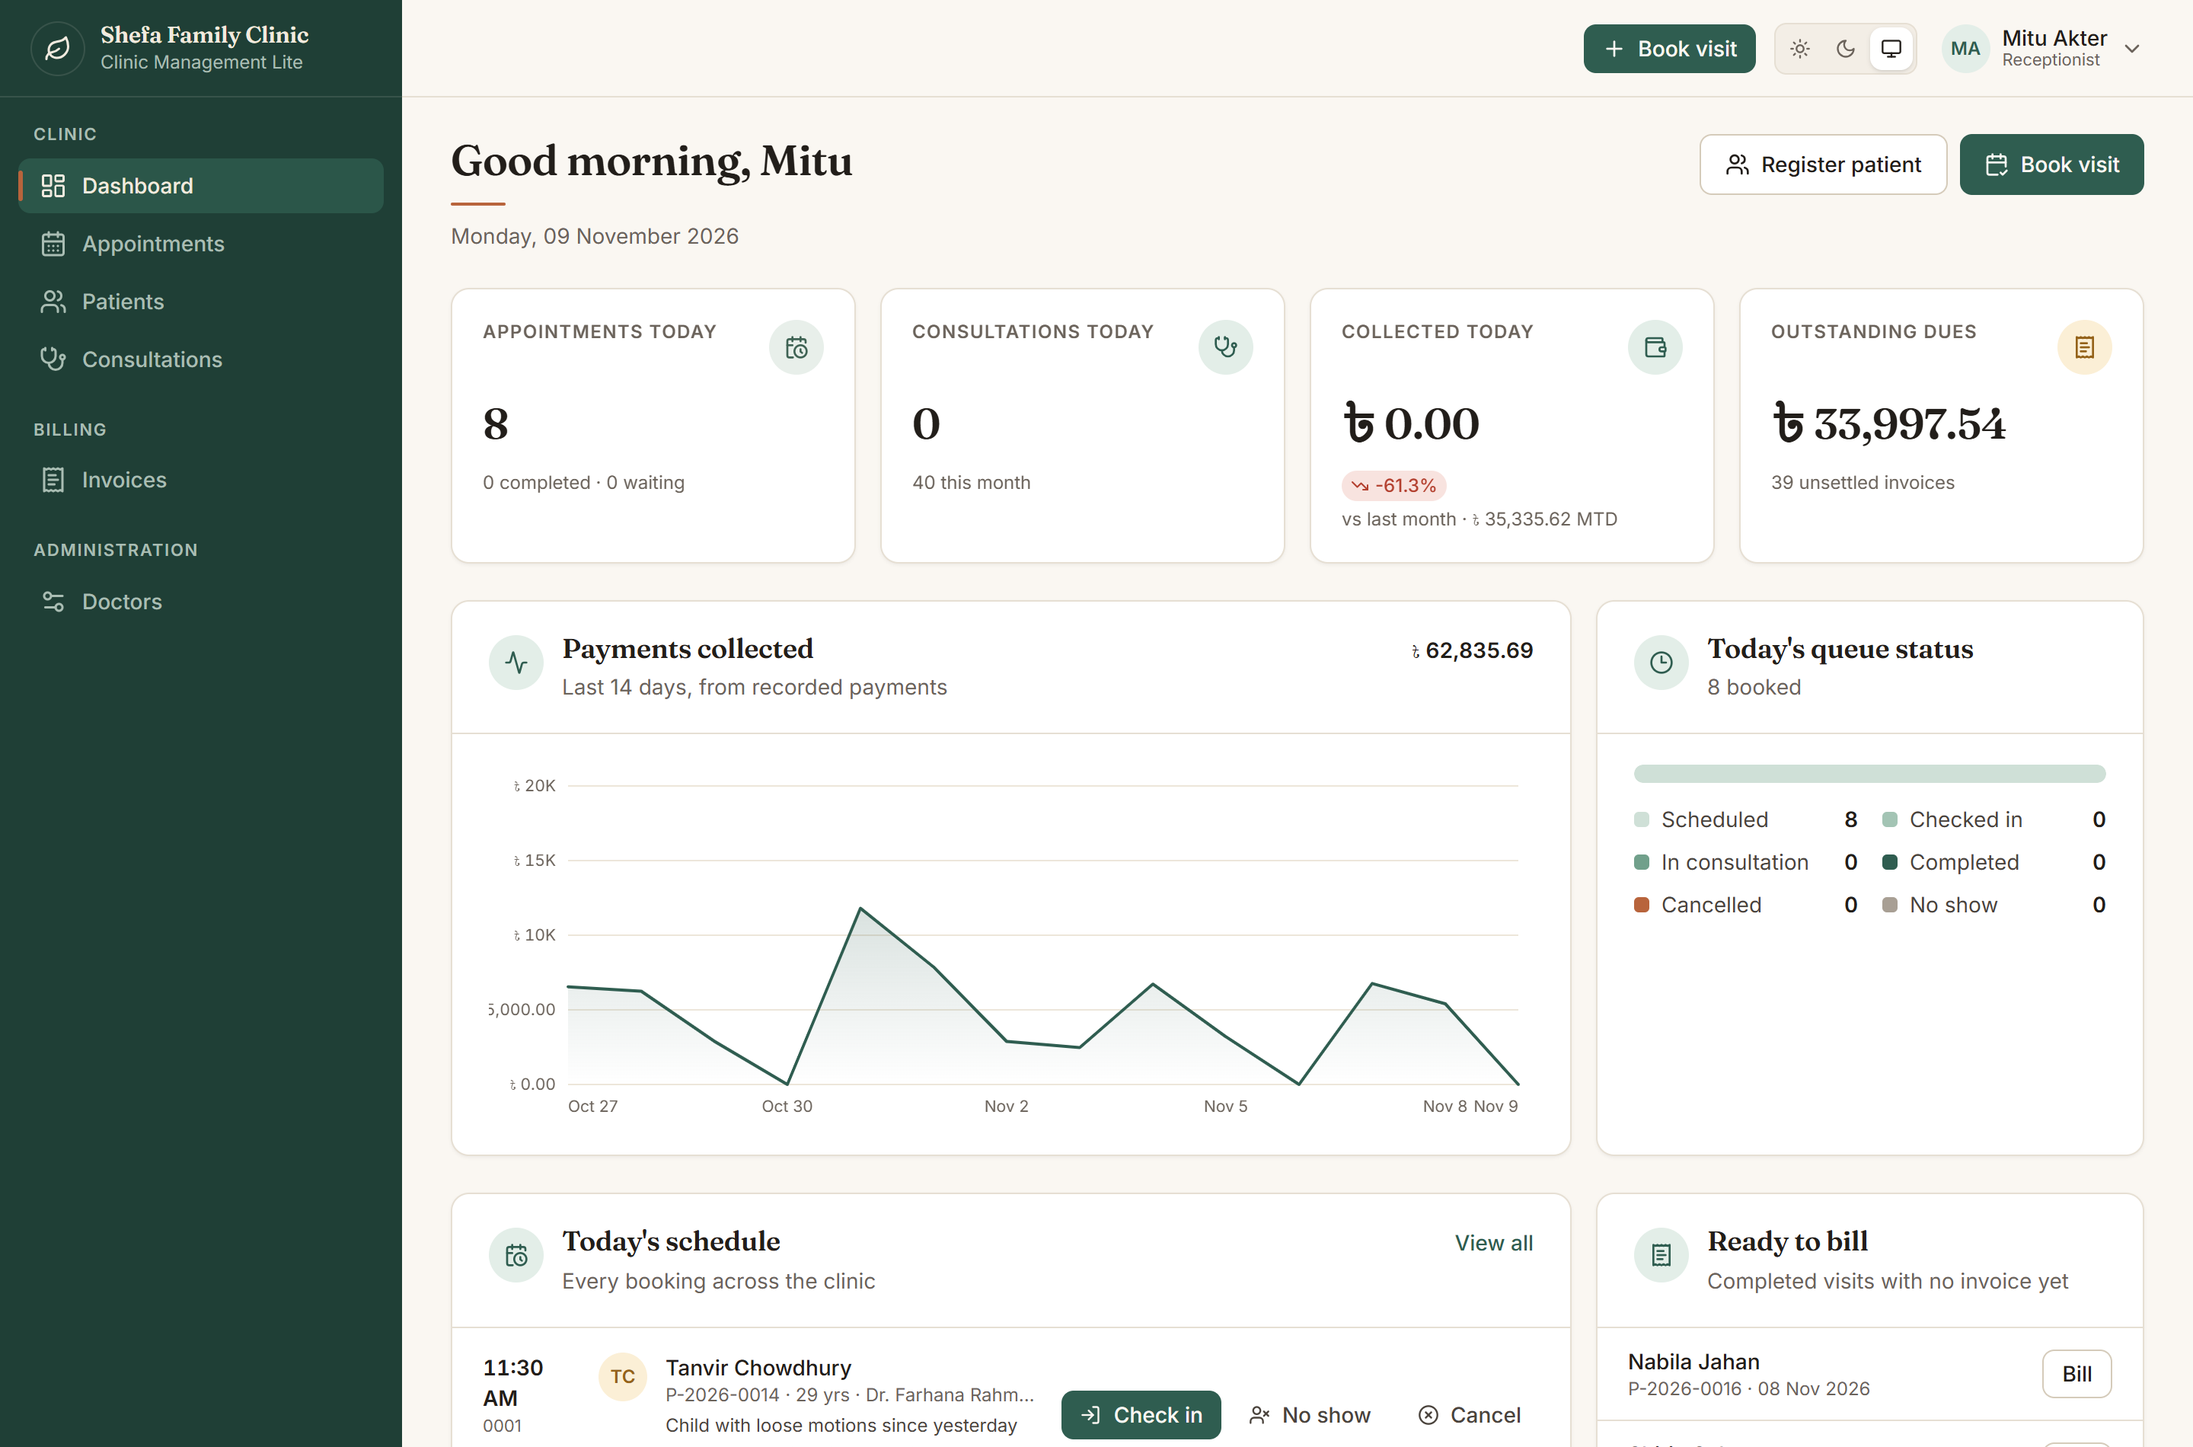
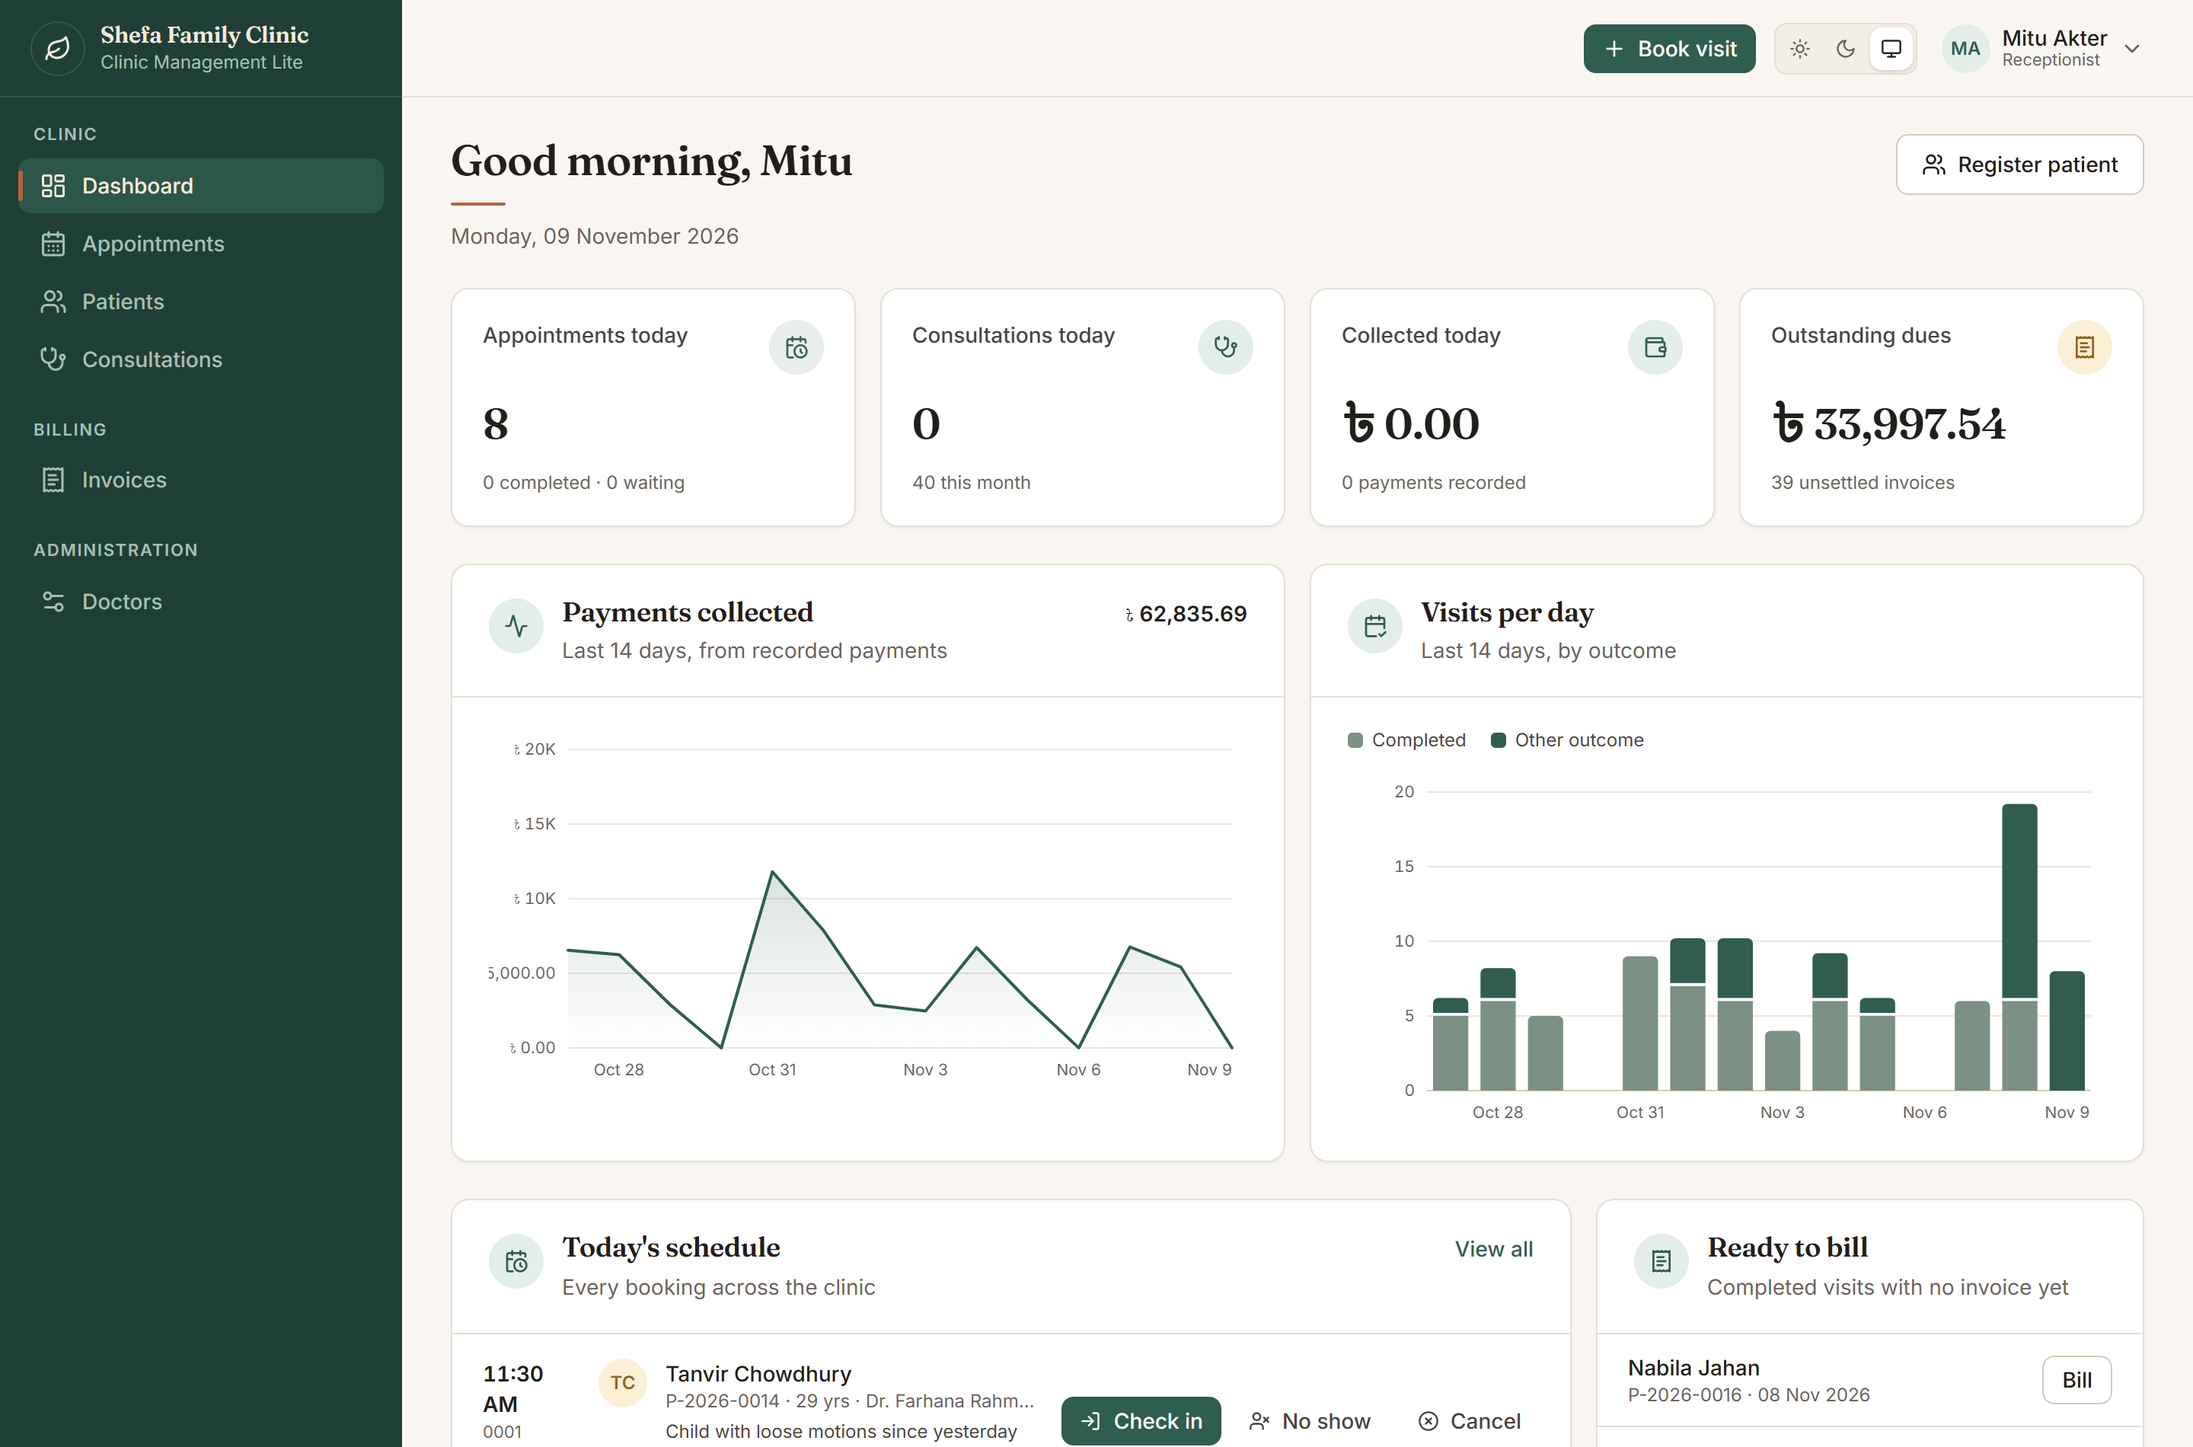
refactor(ui): cut duplicated and low-value elements from the dashboard
The dashboard was showing the same facts in several places at once.
Removed, with the reason each one was redundant:

- "Book visit" in the page header. The top bar carries a persistent
  "Book visit" on every page, so this was the same action twice on
  screen. "Register patient" stays, since nothing else offers it.
- "Today's queue status". The six-segment bar repeated what the first
  stat card already states ("8 — 0 completed · 0 waiting") and what
  "Today's schedule" lists row by row underneath it.
- "Busiest doctors". A vanity ranking with no action attached to it.
- The footer note about figures being aggregated rather than hard-coded.
  It addressed a reviewer, not the receptionist using the page; the
  README still makes the point.
- "Collected today" printed the monthly figure twice, once in the delta
  chip and again in the sub-label.

The two trend charts now sit side by side instead of being split across
two rows by the cards that were between them.

Also fixed: the x-axis labelled every third point *plus* the last one,
so with a 14-day window indices 12 and 13 overlapped and the chart read
"Nov 8Nov 9". Labels are now counted back from the newest day, which
keeps them evenly spaced and always labels the latest date.

Stat-card labels go back to sentence case — as small caps they wrapped
onto two lines and were harder to scan than the figure they describe.

On the patient page, the profile card repeated the name and MRN that
[…]

diff --git a/src/app/(app)/dashboard/page.tsx b/src/app/(app)/dashboard/page.tsx
@@ -6,16 +6,13 @@ import {
   CalendarCheck2,
   CalendarClock,
   ClipboardList,
-  Clock3,
   ReceiptText,
   Stethoscope,
   Users,
 } from "lucide-react";
-import type { AppointmentStatus } from "@prisma/client";
 
 import { requireSession } from "@/lib/auth/session";
 import { getDashboardData } from "@/lib/services/dashboard.service";
-import { APPOINTMENT_STATUS_META } from "@/lib/constants";
 import {
   describeAge,
   formatCurrency,
@@ -35,9 +32,7 @@ import {
 import { EmptyState } from "@/components/ui/states";
 import { buttonClasses } from "@/components/ui/button";
 import {
-  RankingBars,
   RevenueTrendChart,
-  StatusSegmentedBar,
   VisitsBarChart,
 } from "@/components/ui/charts";
 import { AppointmentStatusActions } from "@/components/appointments/status-actions";
@@ -47,14 +42,6 @@ export const metadata: Metadata = { title: "Dashboard" };
 // Figures must reflect what was just saved, so this page is never cached.
 export const dynamic = "force-dynamic";
 
-const STATUS_COLORS: Record<AppointmentStatus, string> = {
-  SCHEDULED: "var(--queue-scheduled)",
-  CHECKED_IN: "var(--queue-checked-in)",
-  IN_CONSULTATION: "var(--queue-in-consultation)",
-  COMPLETED: "var(--queue-completed)",
-  CANCELLED: "var(--queue-cancelled)",
-  NO_SHOW: "var(--queue-no-show)",
-};
 
 export default async function DashboardPage() {
   const session = await requireSession();
@@ -77,22 +64,13 @@ export default async function DashboardPage() {
         title={`Good ${partOfDay()}, ${firstName}`}
         description={formatDateLong(data.generatedAt)}
         actions={
-          <>
-            <Link
-              href="/patients/new"
-              className={buttonClasses("secondary", "md")}
-            >
-              <Users className="h-4 w-4" aria-hidden />
-              Register patient
-            </Link>
-            <Link
-              href="/appointments/new"
-              className={buttonClasses("primary", "md")}
-            >
-              <CalendarCheck2 className="h-4 w-4" aria-hidden />
-              Book visit
-            </Link>
-          </>
+          <Link
+            href="/patients/new"
+            className={buttonClasses("secondary", "md")}
+          >
+            <Users className="h-4 w-4" aria-hidden />
+            Register patient
+          </Link>
         }
       />
 
@@ -119,13 +97,7 @@ export default async function DashboardPage() {
         <StatCard
           label="Collected today"
           value={formatCurrency(kpi.revenueToday)}
-          change={kpi.revenueChange}
-          changeLabel={`${formatCurrency(kpi.revenueThisMonth)} this month`}
-          sublabel={
-            kpi.revenueChange === null
-              ? `${kpi.paymentsTodayCount} payment${kpi.paymentsTodayCount === 1 ? "" : "s"} recorded`
-              : `vs last month · ${formatCurrency(kpi.revenueThisMonth)} MTD`
-          }
+          sublabel={`${kpi.paymentsTodayCount} payment${kpi.paymentsTodayCount === 1 ? "" : "s"} recorded`}
           icon={<Wallet className="h-4 w-4" aria-hidden />}
           href={canBill ? "/invoices" : undefined}
         />
@@ -140,8 +112,8 @@ export default async function DashboardPage() {
       </section>
 
       {/* ---------------- charts ---------------- */}
-      <section className="mt-6 grid grid-cols-1 gap-4 xl:grid-cols-3">
-        <Card className="xl:col-span-2">
+      <section className="mt-6 grid grid-cols-1 gap-4 xl:grid-cols-2">
+        <Card>
           <CardHeader
             title="Payments collected"
             description="Last 14 days, from recorded payments"
@@ -161,20 +133,12 @@ export default async function DashboardPage() {
 
         <Card>
           <CardHeader
-            title="Today's queue status"
-            description={`${kpi.appointmentsToday} booked`}
-            icon={<Clock3 className="h-4 w-4" aria-hidden />}
+            title="Visits per day"
+            description="Last 14 days, by outcome"
+            icon={<CalendarCheck2 className="h-4 w-4" aria-hidden />}
           />
           <CardBody>
-            <StatusSegmentedBar
-              slices={data.statusBreakdown.map((slice) => ({
-                label:
-                  APPOINTMENT_STATUS_META[slice.status as AppointmentStatus]
-                    .label,
-                value: slice.count,
-                color: STATUS_COLORS[slice.status as AppointmentStatus],
-              }))}
-            />
+            <VisitsBarChart data={data.trend} />
           </CardBody>
         </Card>
       </section>
@@ -362,47 +326,6 @@ export default async function DashboardPage() {
         </div>
       </section>
 
-      {/* ---------------- secondary charts ---------------- */}
-      <section className="mt-6 grid grid-cols-1 gap-4 xl:grid-cols-3">
-        <Card className="xl:col-span-2">
-          <CardHeader
-            title="Visits per day"
-            description="Last 14 days, by outcome"
-            icon={<CalendarCheck2 className="h-4 w-4" aria-hidden />}
-          />
-          <CardBody>
-            <VisitsBarChart data={data.trend} />
-          </CardBody>
-        </Card>
-
-        <Card>
-          <CardHeader
-            title="Busiest doctors"
-            description="Consultations this month"
-            icon={<Stethoscope className="h-4 w-4" aria-hidden />}
-          />
-          <CardBody>
-            {data.topDoctors.length === 0 ? (
-              <p className="py-6 text-center text-sm text-ink-muted">
-                No consultations recorded this month yet.
-              </p>
-            ) : (
-              <RankingBars
-                items={data.topDoctors.map((doctor) => ({
-                  label: doctor.name,
-                  sublabel: doctor.specialization,
-                  value: doctor.visits,
-                }))}
-              />
-            )}
-          </CardBody>
-        </Card>
-      </section>
-
-      <p className="mt-6 text-center text-xs text-ink-muted">
-        Every figure on this page is aggregated from stored records at page
-        load — nothing here is hard-coded.
-      </p>
     </>
   );
 }

diff --git a/src/components/ui/charts.tsx b/src/components/ui/charts.tsx
@@ -2,7 +2,7 @@
 
 import * as React from "react";
 
-import { formatCurrency, formatCurrencyCompact, formatNumber } from "@/lib/utils";
+import { formatCurrency, formatCurrencyCompact } from "@/lib/utils";
 import {
   barPath,
   ChartDataTable,
@@ -143,9 +143,10 @@ export function RevenueTrendChart({
           />
         ) : null}
 
-        {/* x labels - every third tick keeps them from colliding */}
+        {/* x labels - every third tick, counted back from the newest day,
+            so the latest date is always labelled and none collide */}
         {data.map((item, index) =>
-          index % 3 === 0 || index === data.length - 1 ? (
+          (data.length - 1 - index) % 3 === 0 ? (
             <text
               key={item.label}
               x={PAD.left + index * stepX}
@@ -353,7 +354,7 @@ export function VisitsBarChart({
           })}
 
           {data.map((item, index) =>
-            index % 3 === 0 || index === data.length - 1 ? (
+            (data.length - 1 - index) % 3 === 0 ? (
               <text
                 key={item.label}
                 x={PAD.left + index * slot + slot / 2}
@@ -408,109 +409,3 @@ export function VisitsBarChart({
    Today's status - part-to-whole segmented bar with a counted legend
    (the legend doubles as the direct labels the contrast relief rule requires)
    =========================================================================== */
-
-export type StatusSlice = {
-  label: string;
-  value: number;
-  color: string;
-};
-
-export function StatusSegmentedBar({ slices }: { slices: StatusSlice[] }) {
-  const visible = slices.filter((slice) => slice.value > 0);
-  const total = visible.reduce((sum, slice) => sum + slice.value, 0);
-
-  if (total === 0) {
-    return (
-      <p className="py-6 text-center text-sm text-ink-muted">
-        No appointments booked for today yet.
-      </p>
-    );
-  }
-
-  return (
-    <div className="space-y-3.5">
-      <div
-        className="flex h-3 w-full gap-[2px] overflow-hidden rounded-full"
-        role="img"
-        aria-label={visible
-          .map((slice) => `${slice.label}: ${slice.value}`)
-          .join(", ")}
-      >
-        {visible.map((slice) => (
-          <span
-            key={slice.label}
-            className="h-full first:rounded-l-full last:rounded-r-full"
-            style={{
-              width: `${(slice.value / total) * 100}%`,
-              backgroundColor: slice.color,
-            }}
-          />
-        ))}
-      </div>
-
-      <ul className="grid grid-cols-2 gap-x-4 gap-y-2">
-        {slices.map((slice) => (
-          <li
-            key={slice.label}
-            className="flex items-center justify-between gap-2 text-sm"
-          >
-            <span className="flex min-w-0 items-center gap-2">
-              <span
-                className="h-2.5 w-2.5 shrink-0 rounded-[3px]"
-                style={{ backgroundColor: slice.color }}
-                aria-hidden
-              />
-              <span className="truncate text-ink-secondary">{slice.label}</span>
-            </span>
-            <span className="tabular font-semibold text-ink">
-              {formatNumber(slice.value)}
-            </span>
-          </li>
-        ))}
-      </ul>
-    </div>
-  );
-}
-
-/* ===========================================================================
-   Horizontal ranking bars - "busiest doctors this month"
-   =========================================================================== */
-
-export function RankingBars({
-  items,
-}: {
-  items: { label: string; sublabel?: string; value: number }[];
-}) {
-  const max = Math.max(...items.map((item) => item.value), 1);
-
-  return (
-    <ul className="space-y-3">
-      {items.map((item) => (
-        <li key={item.label} className="space-y-1.5">
-          <div className="flex items-baseline justify-between gap-3">
-            <span className="min-w-0 truncate text-sm font-medium text-ink">
-              {item.label}
-              {item.sublabel ? (
-                <span className="ml-1.5 text-xs font-normal text-ink-muted">
-                  {item.sublabel}
-                </span>
-              ) : null}
-            </span>
-            <span className="tabular shrink-0 text-sm font-semibold text-ink">
-              {item.value}
-            </span>
-          </div>
-          <div className="h-2 w-full overflow-hidden rounded-full bg-surface-muted">
-            <div
-              className="h-full rounded-full"
-              style={{
-                width: `${Math.max((item.value / max) * 100, 4)}%`,
-                backgroundColor: "var(--viz-1)",
-              }}
-            />
-          </div>
-        </li>
-      ))}
-    </ul>
-  );
-}

diff --git a/src/app/(app)/patients/[id]/page.tsx b/src/app/(app)/patients/[id]/page.tsx
@@ -150,21 +150,16 @@ export default async function PatientProfilePage({
         <div className="space-y-4">
           <Card>
             <CardBody>
+              {/* The page title above already gives the name and MRN. */}
               <div className="flex items-center gap-3">
                 <Avatar name={name} size="lg" />
-                <div className="min-w-0">
-                  <p className="truncate text-[15px] font-semibold text-ink">
-                    {name}
-                  </p>
-                  <p className="tabular text-sm text-ink-muted">{patient.mrn}</p>
-                  <div className="mt-1.5 flex flex-wrap items-center gap-1.5">
-                    <GenderBadge gender={patient.gender} />
-                    {patient.bloodGroup !== "UNKNOWN" ? (
-                      <Badge tone="danger">
-                        {BLOOD_GROUP_META[patient.bloodGroup]}
-                      </Badge>
-                    ) : null}
-                  </div>
+                <div className="flex min-w-0 flex-wrap items-center gap-1.5">
+                  <GenderBadge gender={patient.gender} />
+                  {patient.bloodGroup !== "UNKNOWN" ? (
+                    <Badge tone="danger">
+                      {BLOOD_GROUP_META[patient.bloodGroup]}
+                    </Badge>
+                  ) : null}
                 </div>
               </div>
 

diff --git a/src/app/globals.css b/src/app/globals.css
@@ -92,17 +92,6 @@
   --viz-area-from: rgba(47, 93, 80, 0.18);
   --viz-area-to: rgba(47, 93, 80, 0);
 
-  /* Queue bar. The four workflow states are an ordered sage ramp that steps
-     monotonically in lightness, so the sequence survives any colour-vision
-     deficiency (and greyscale print). The two off-path states break the ramp
-     deliberately. Each segment is also separated by a gap and named with its
-     count in the legend, so colour is never the only channel. */
-  --queue-scheduled: #cfe0d7;
-  --queue-checked-in: #a3c4b4;
-  --queue-in-consultation: #71a08b;
-  --queue-completed: #2f5d50;
-  --queue-cancelled: #b8643c;
-  --queue-no-show: #a89f94;
 }
 
 [data-theme="dark"] {
@@ -174,12 +163,6 @@
   --viz-area-from: rgba(111, 191, 159, 0.22);
   --viz-area-to: rgba(111, 191, 159, 0);
 
-  --queue-scheduled: #2a4036;
-  --queue-checked-in: #3d6554;
-  --queue-in-consultation: #539a7e;
-  --queue-completed: #8fd3b4;
-  --queue-cancelled: #e39b72;
-  --queue-no-show: #8a8178;
 }
 
 /* ===========================================================================

diff --git a/src/components/ui/stat-card.tsx b/src/components/ui/stat-card.tsx
@@ -40,7 +40,7 @@ export function StatCard({
   const body = (
     <>
       <div className="flex items-start justify-between gap-3">
-        <p className="eyebrow">{label}</p>
+        <p className="text-sm font-medium text-ink-secondary">{label}</p>
         {icon ? (
           <span
             className={cn(
